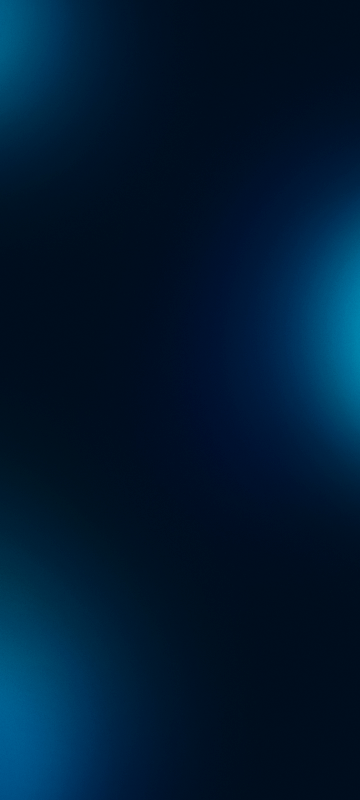
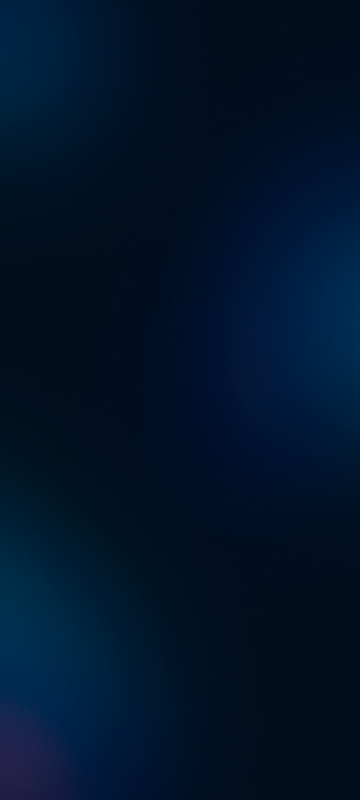
change background based on midia

Changed region(s): [[0.7944, 0.2188, 1.0, 0.5938], [0.0, 0.7812, 0.2444, 1.0], [0.0, 0.0, 0.1833, 0.1562]]

diff --git a/style.css b/style.css
@@ -25,10 +25,12 @@
 body {
   /* background:          image,                  repeat,      position/size */
   background: var(--bg-url) no-repeat top center/cover;
+  height: 100vh;
 }
 body * {
   font-family: "Inter", sans-serif;
   color: var(--text-color);
+
 }
 /* conteiner*/
 #conteiner {
@@ -158,4 +160,15 @@ footer {
   display: flex;
   justify-content: center;
   align-items: center;
+}
+
+
+@media (min-width: 700px) {
+  :root {
+    --bg-url: url(./assets/assets/Background.png);
+  }
+
+  .light {
+    --bg-url: url(./assets/assets/background-clean.png);
+  }
 }
